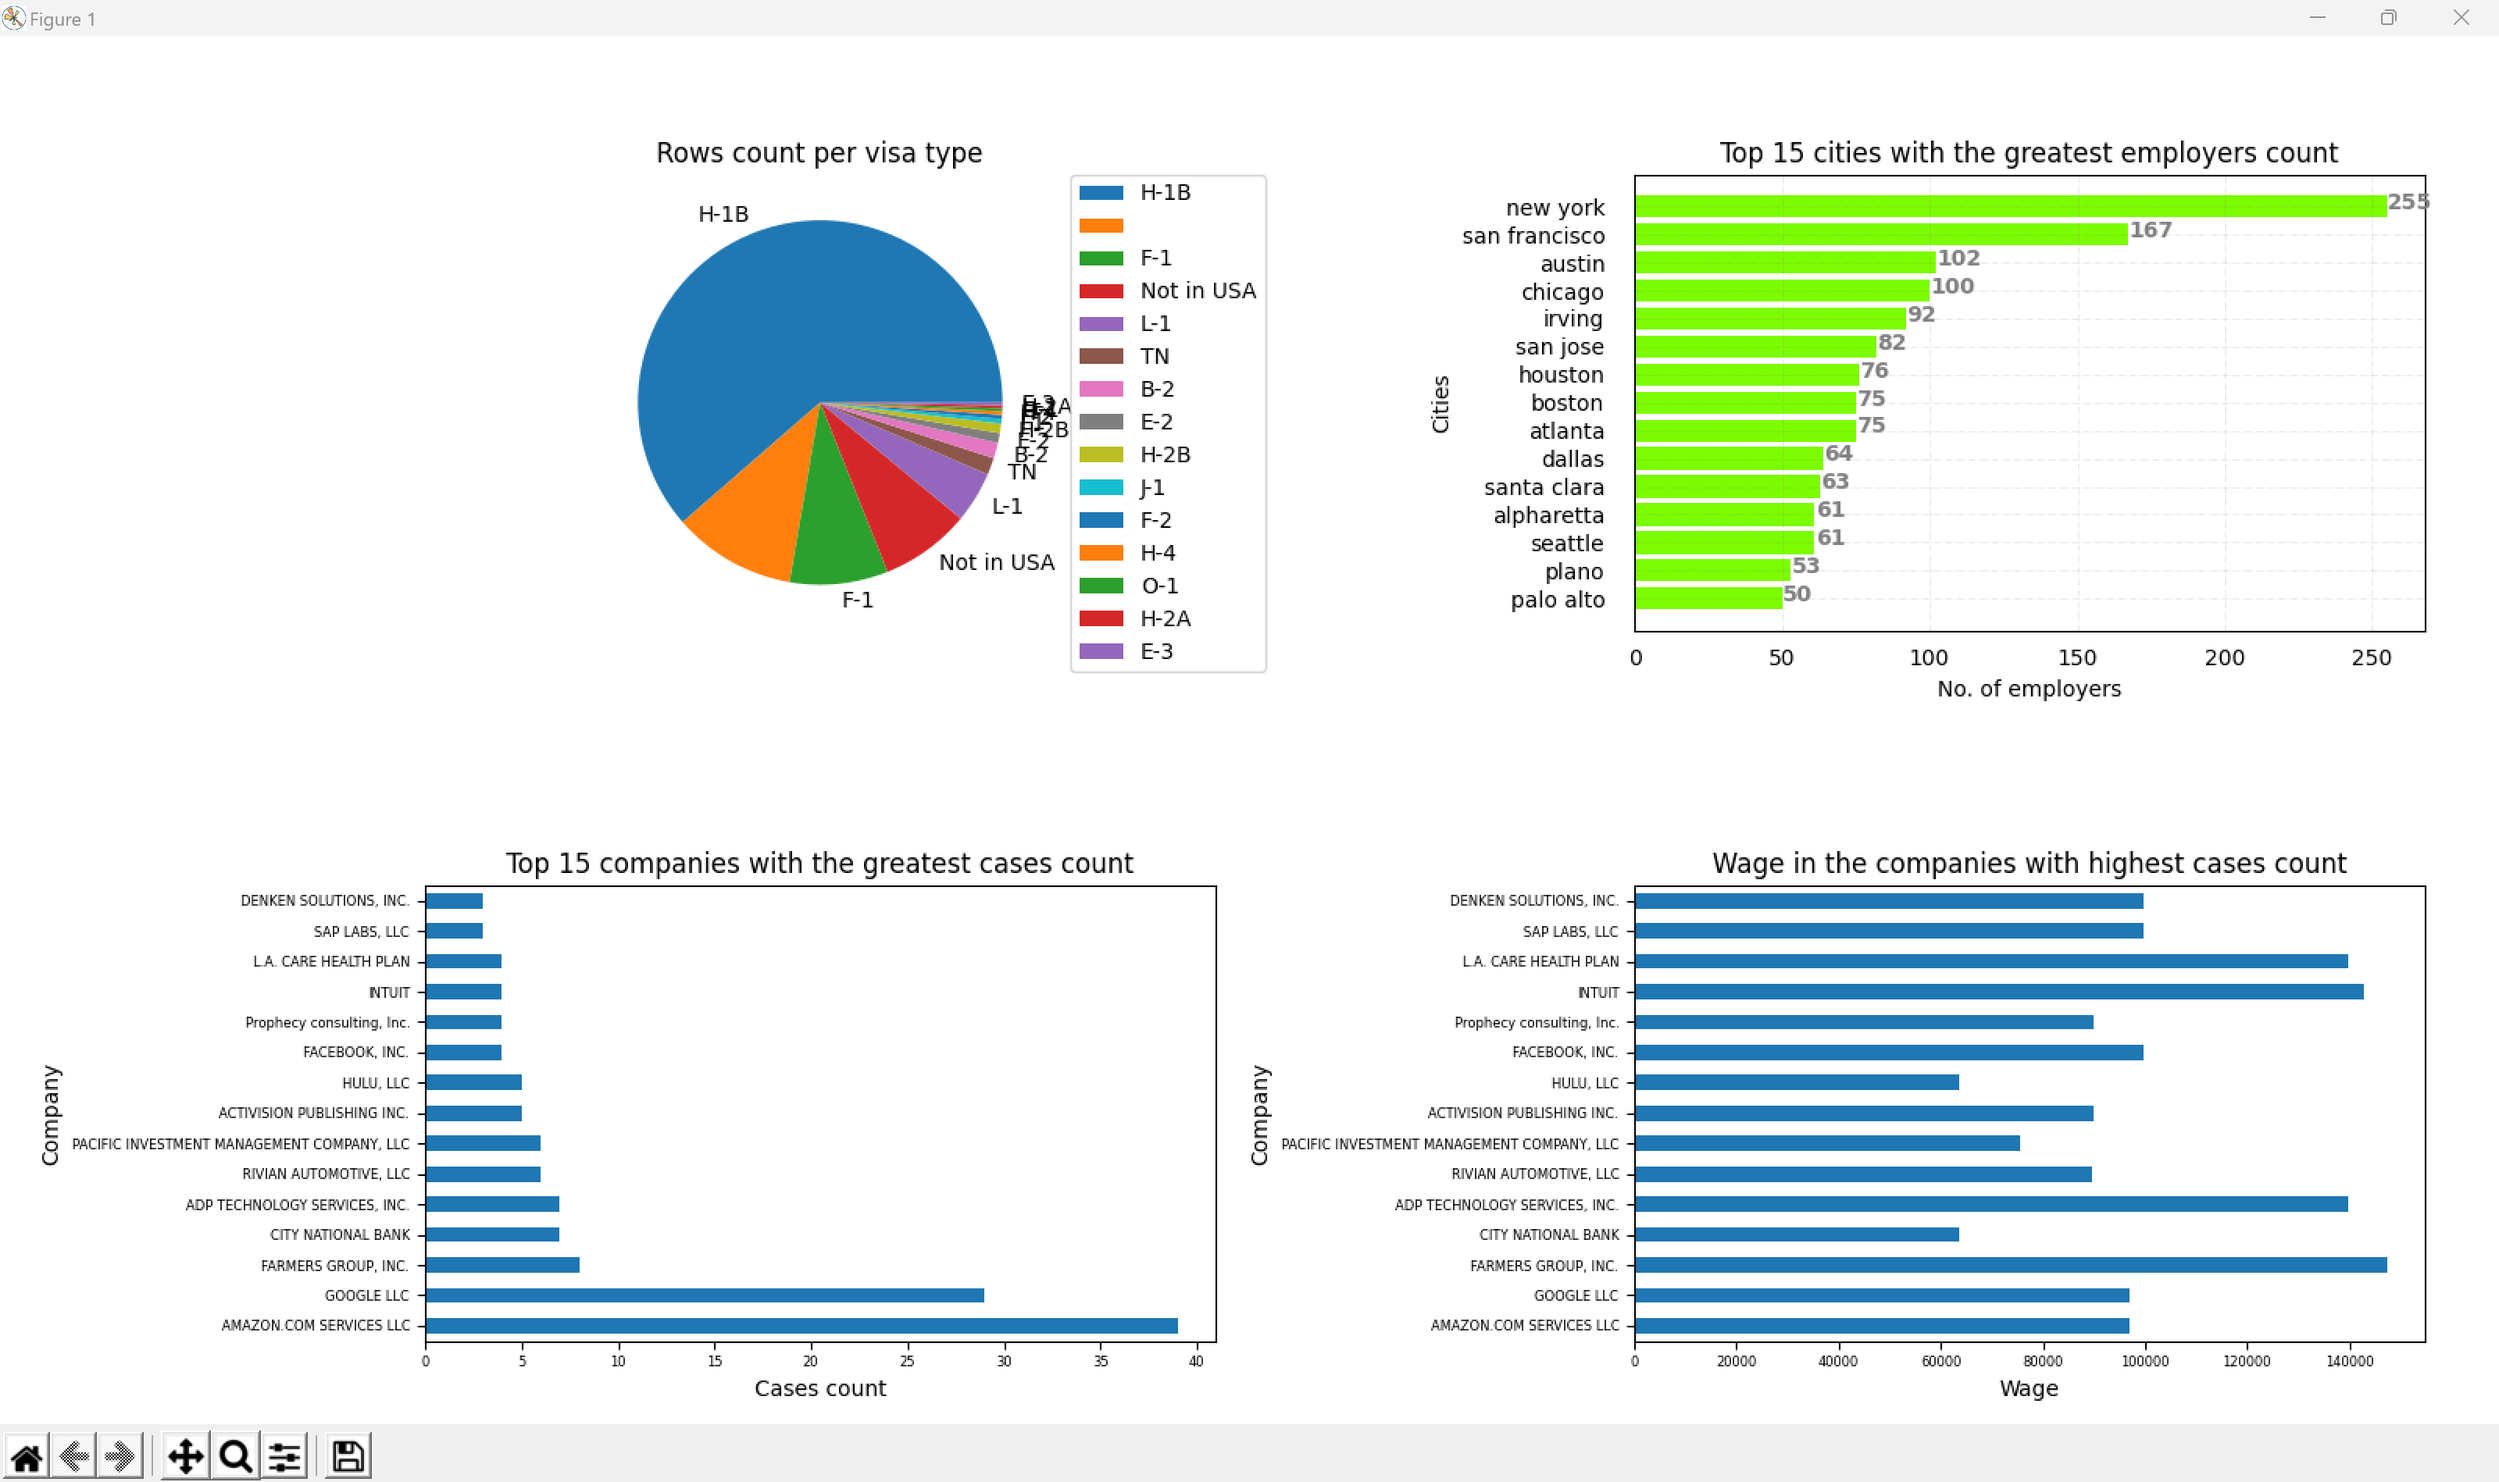
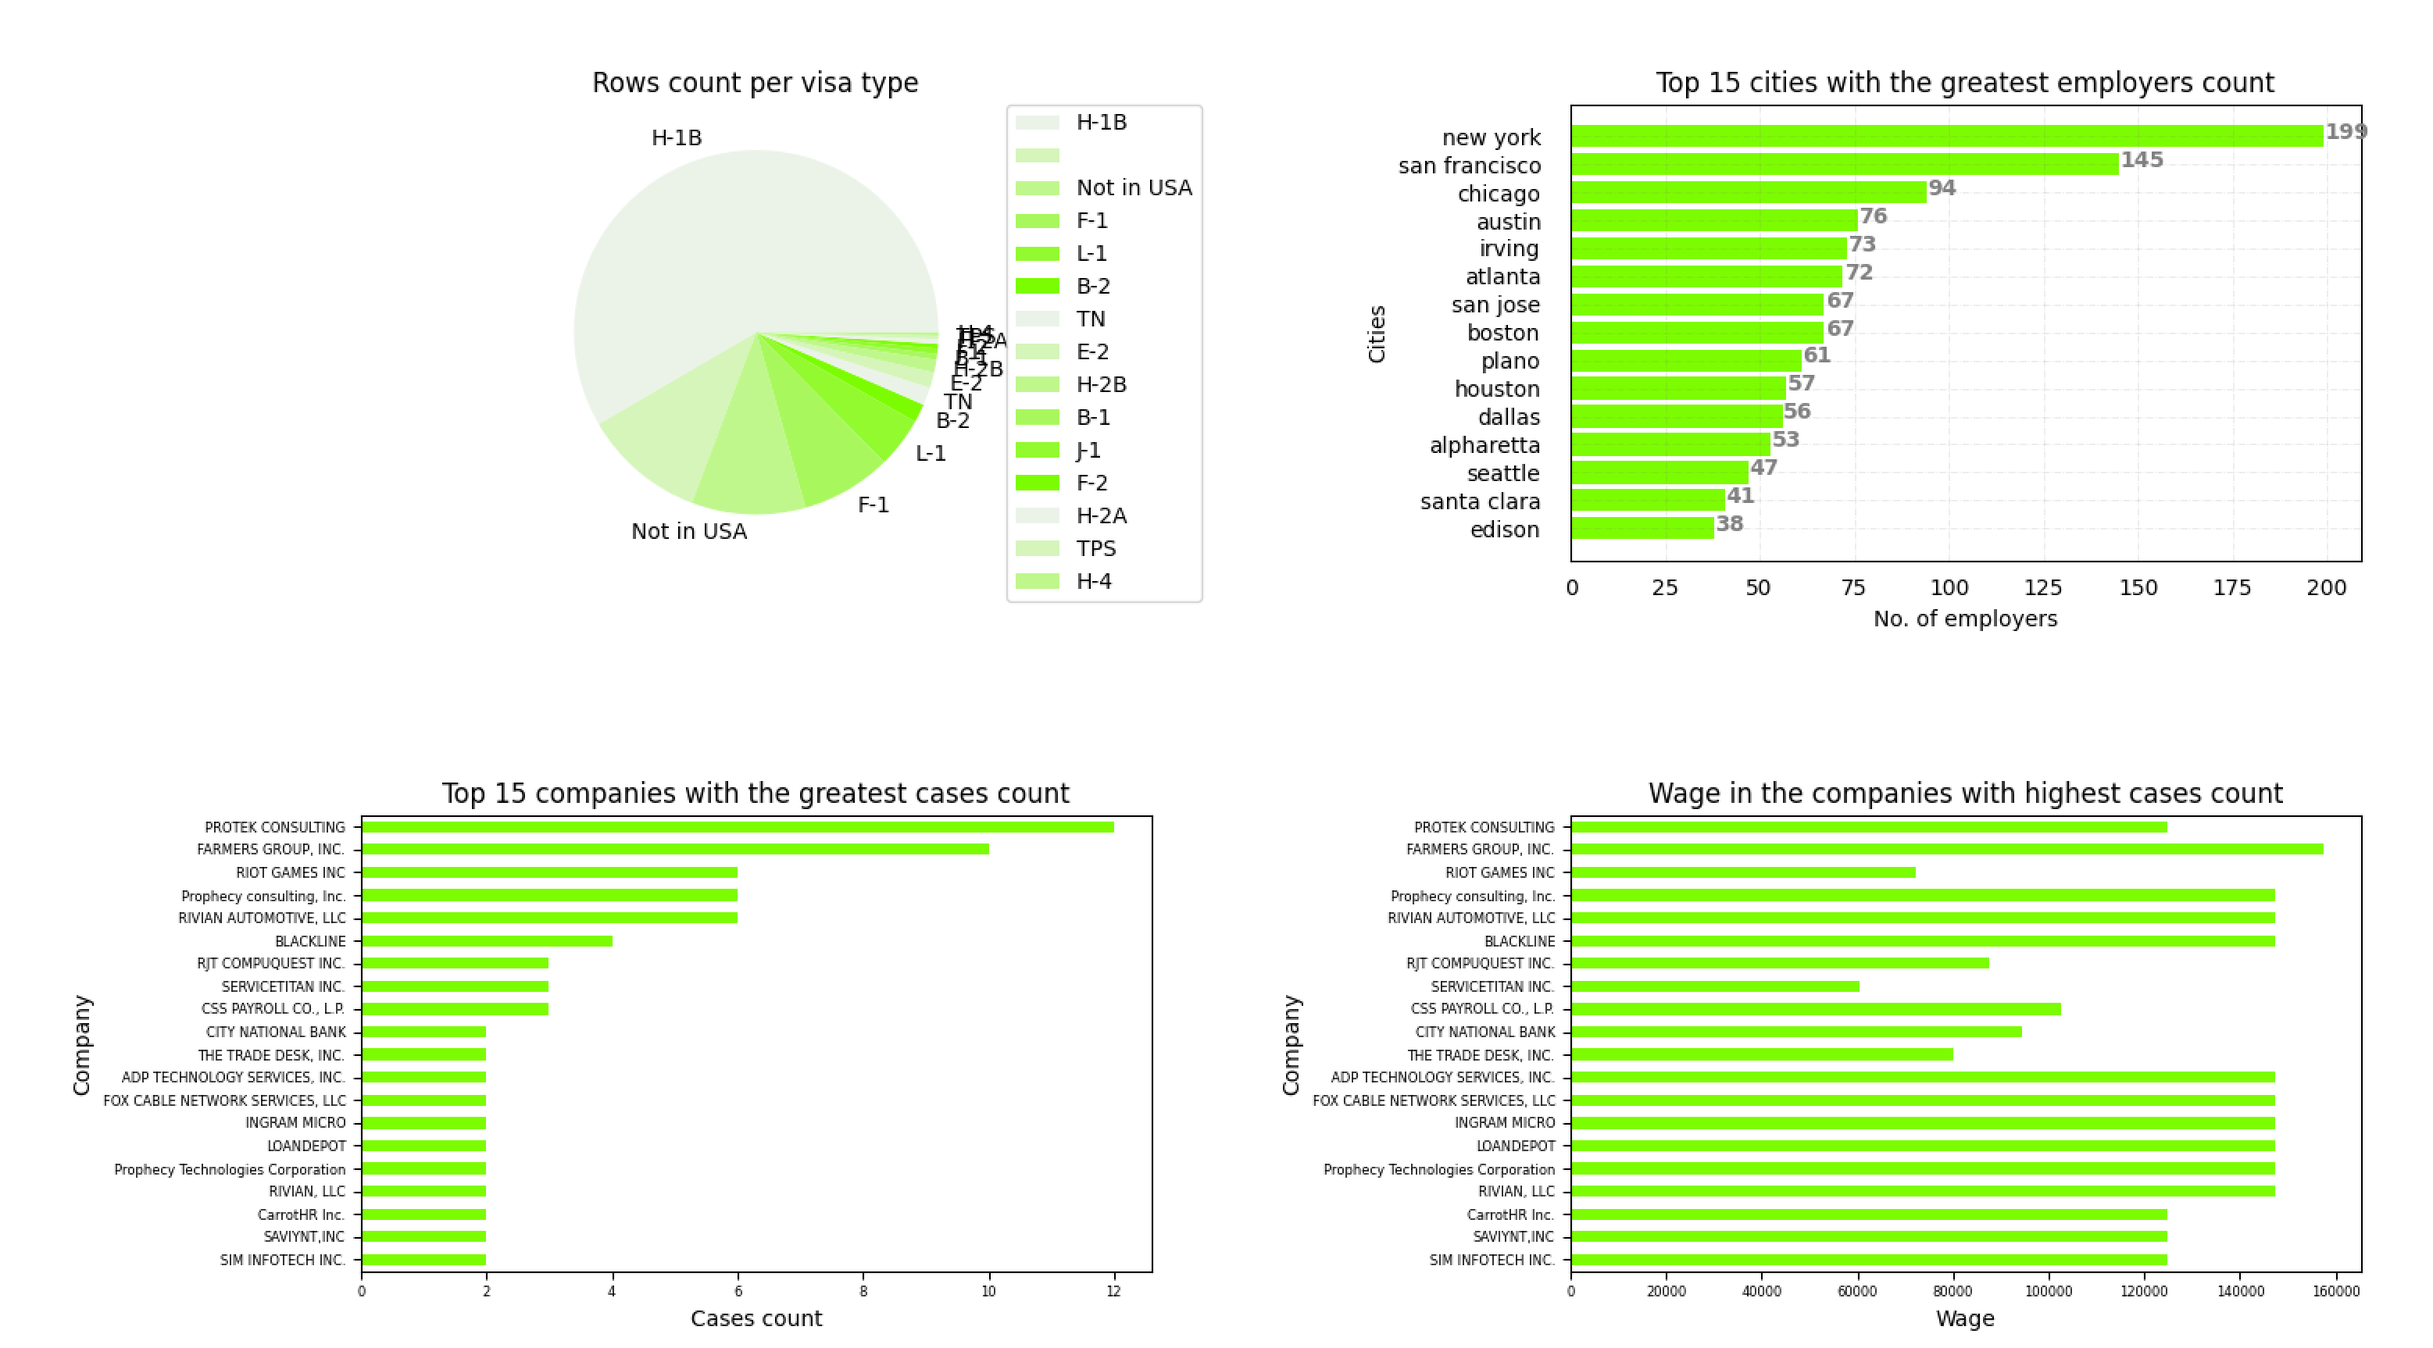
add parameters, edit colors

diff --git a/parser/report-parser.py b/parser/report-parser.py
@@ -1,8 +1,12 @@
 import os
+from functools import reduce
+
 import pandas as pd
-from pyspark.sql import SparkSession, DataFrame
+from pyspark.sql import SparkSession, DataFrame, Column
 import pyspark.sql.functions as F
 import matplotlib.pyplot as plt
+import seaborn as sns
+from typing import List
 
 
 # SET PYSPARK_PYTHON env to <your-path>\performance-report-parser\venv\Scripts\python.exe
@@ -27,13 +31,6 @@ def parse_report(spark, csv_report_path) -> DataFrame:
 
 
 def show_visa_types(df, ax):
-    # df.filter(F.col("CLASS_OF_ADMISSION").startswith('EB'))
-
-    # df.filter(F.col("CLASS_OF_ADMISSION") != 'H-1B')
-    #    .filter(F.col("CLASS_OF_ADMISSION") != "F-1")
-    #    .filter(F.col("CLASS_OF_ADMISSION") != "Not in USA")
-    #    .filter(F.col("CLASS_OF_ADMISSION") != "L-1")
-
     res_df = (
         df.groupBy(F.col("CLASS_OF_ADMISSION"))
           .agg(F.countDistinct(F.col("CASE_NUMBER")))
@@ -46,7 +43,7 @@ def show_visa_types(df, ax):
     labels = res_pd['CLASS_OF_ADMISSION']
     sizes = res_pd['count(CASE_NUMBER)']
 
-    ax.pie(sizes, labels=labels)
+    ax.pie(sizes, labels=labels, colors=sns.color_palette("light:lawngreen"))
     ax.set_title('Rows count per visa type')
     ax.legend(labels[:15], bbox_to_anchor=(1.05, 1), loc='upper left', borderaxespad=0)
 
@@ -111,47 +108,34 @@ def show_employers_cnt_per_city(df: DataFrame, ax):
     ax.title.set_text("Top 15 cities with the greatest employers count")
 
 
-def show_software_companies_with_max_cases_cnt_and_wage(df: DataFrame, ax_cases, ax_wage):
-    # (
-    #     df.filter(F.col('COUNTRY_OF_CITIZENSHIP').startswith("RUSSIA"))
-    #         .filter(df.JOB_TITLE.like('Data Engineer'))
-    #         .limit(10)
-    #         .show(truncate=False)
-    #  )
+def show_software_companies_with_max_cases_cnt_and_wage(df: DataFrame, job_titles, skills, state, cities, ax_cases,
+                                                        ax_wage):
+    def contains_any(c: Column, values: List[str]):
+        lower_values = [c.like(f'%{j.lower()}%') for j in values]
+        or_like_condition = reduce(lambda x, y: x | y, lower_values)
+        return or_like_condition
 
-    # (
-    #     df.groupBy(df.CASE_STATUS)
-    #         .agg(F.countDistinct(df.CASE_NUMBER))
-    #         .show(truncate=False)
-    # )
-
-    res_df = (
+    lower_cities = [c.lower() for c in cities]
+    tdf = (
         df.filter(df.CASE_STATUS == 'Certified')
-           .filter(
-                (F.lower(df.JOB_TITLE).like('%software engineer%')
-                    | F.lower(df.JOB_TITLE).like('%data engineer%')
-                    | F.lower(df.JOB_TITLE).like('%software developer%'))
-                |
-                (F.lower(df.SPECIFIC_SKILLS).like('%spark%'))
-                |
-                (F.lower(df.PW_SOC_TITLE).like('%data%')
-                    | F.lower(df.PW_SOC_TITLE).like('%software developer%')
-                    | F.lower(df.PW_SOC_TITLE).like('%software engineer%'))
-                |
-                (F.lower(df.ACCEPT_ALT_JOB_TITLE).like('%data%')
-                    | F.lower(df.ACCEPT_ALT_JOB_TITLE).like('%software developer%')
-                    | F.lower(df.ACCEPT_ALT_JOB_TITLE).like('%software engineer%'))
-           )
-           .filter(df.WORKSITE_STATE == 'CALIFORNIA')
-           .filter(
-               F.lower(df.WORKSITE_CITY).isin(
-                   'los angeles', 'irvine', 'orange county', 'pasadena', 'el segundo', 'santa monica',
-                   'culver city', 'glendale', 'woodland hills', 'newport beach'
-               )
-           )
+            .filter(df.CLASS_OF_ADMISSION == 'H-1B')
+            .withColumn('lower_job_title', F.lower(df.JOB_TITLE))
+            .withColumn('lower_pw_soc_title', F.lower(df.PW_SOC_TITLE))
+            .withColumn('lower_alt_job_title', F.lower(df.ACCEPT_ALT_JOB_TITLE))
+    )
+    res_df = (
+        tdf.filter(
+            contains_any(tdf.lower_job_title, job_titles)
+                | contains_any(tdf.lower_pw_soc_title, job_titles)
+                | contains_any(tdf.lower_alt_job_title, job_titles)
+                | contains_any(tdf.SPECIFIC_SKILLS, skills)
+            )
+            .filter(F.upper(tdf.WORKSITE_STATE) == state.upper())
+            .filter(F.lower(tdf.WORKSITE_CITY).isin(*lower_cities))
     )
     print(f"Found {res_df.count()} cases")
     res_df.show(truncate=False)
+
     companies_ordered_df = (
         res_df.groupBy('EMPLOYER_NAME')
             .agg(F.count(F.col('CASE_NUMBER')).alias('cases_cnt'), F.max(F.col('PW_WAGE')).alias('max_wage'))
@@ -160,13 +144,14 @@ def show_software_companies_with_max_cases_cnt_and_wage(df: DataFrame, ax_cases,
     print(f"Found {companies_ordered_df.count()} employers")
     companies_ordered_df.limit(50).show(50, truncate=False)
 
-    companies_df = companies_ordered_df.limit(15)
+    companies_df = companies_ordered_df.limit(20)
 
     pd_df = companies_df.toPandas()
+    pd_df = pd_df.iloc[::-1]
     pd_df['max_wage'] = pd_df['max_wage'].astype(float)
 
-    pd_df[["EMPLOYER_NAME", "cases_cnt"]].plot(x="EMPLOYER_NAME", kind="barh", ax=ax_cases, fontsize=6)
-    pd_df[["EMPLOYER_NAME", "max_wage"]].plot(x="EMPLOYER_NAME", kind="barh", ax=ax_wage, fontsize=6)
+    pd_df[["EMPLOYER_NAME", "cases_cnt"]].plot(x="EMPLOYER_NAME", kind="barh", ax=ax_cases, fontsize=6, color='lawngreen')
+    pd_df[["EMPLOYER_NAME", "max_wage"]].plot(x="EMPLOYER_NAME", kind="barh", ax=ax_wage, fontsize=6, color='lawngreen')
 
     ax_cases.set_xlabel('Cases count')
     ax_cases.set_ylabel('Company')
@@ -182,7 +167,7 @@ def show_software_companies_with_max_cases_cnt_and_wage(df: DataFrame, ax_cases,
 def init_spark_session():
     spark = SparkSession \
         .builder \
-        .appName("Python Spark SQL basic example") \
+        .appName("Basic example") \
         .getOrCreate()
 
     return spark
@@ -204,7 +189,13 @@ def main():
     df = parse_report(spark, csv_report_name)
 
     fig, axis = plt.subplots(2, 2)
-    show_software_companies_with_max_cases_cnt_and_wage(df, axis[1, 0], axis[1, 1])
+
+    job_titles = ['Software Engineer', 'Data Engineer', 'Software Developer', 'Data']
+    state = 'California'
+    cities = ['los angeles', 'irvine', 'orange county', 'pasadena', 'el segundo', 'santa monica',
+        'culver city', 'glendale', 'woodland hills', 'newport beach']
+    skills = ['Spark']
+    show_software_companies_with_max_cases_cnt_and_wage(df, job_titles, skills, state, cities, axis[1, 0], axis[1, 1])
     show_visa_types(df, axis[0, 0])
     show_employers_cnt_per_city(df, axis[0, 1])
 
